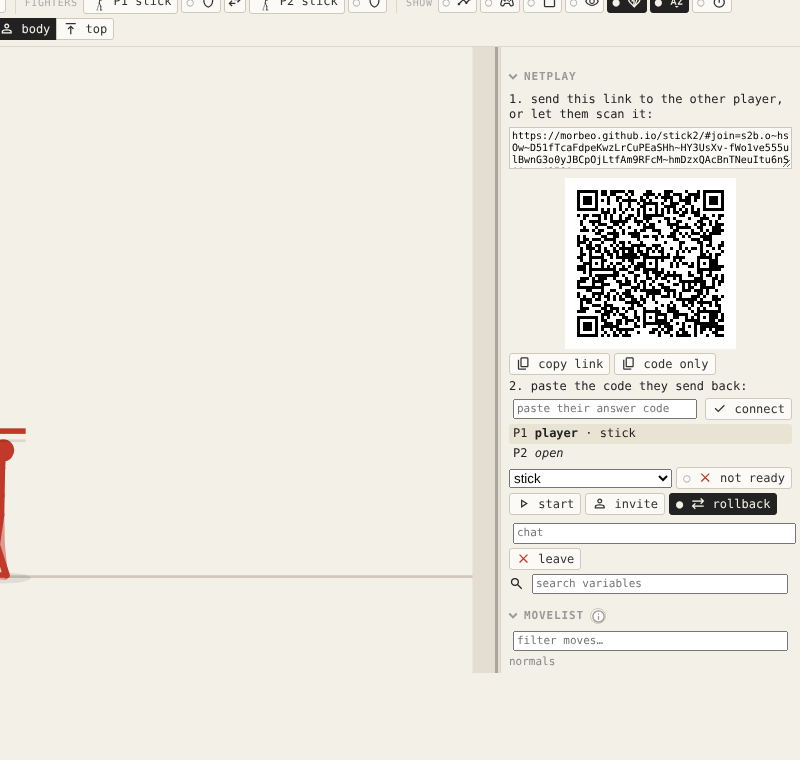
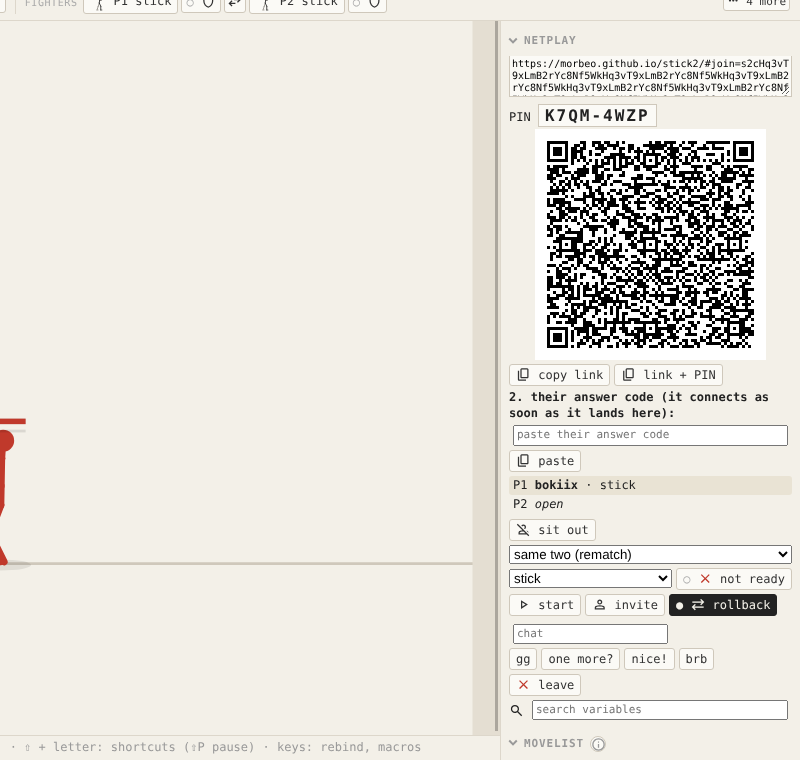
Deploy master@0562650

diff --git a/index.html b/index.html
@@ -391,90 +391,90 @@
 <div id="side"></div>
 <div id="grip" data-tip="Drag: the side panel's width, kept per tab (double-click: back to 300 px)"></div>
 <div id="help"></div>
-<script src="src/build.js?v=d5320cb"></script>
-<script src="src/ui/embed-schema.js?v=d5320cb"></script>
-<script src="src/ui/embed-presets.js?v=d5320cb"></script>
-<script src="src/ui/embed.js?v=d5320cb"></script>
-<script src="src/engine/core.js?v=d5320cb"></script>
-<script src="src/engine/shapes.js?v=d5320cb"></script>
-<script src="src/engine/rig.js?v=d5320cb"></script>
-<script src="src/engine/rig-chars.js?v=d5320cb"></script>
-<script src="src/engine/chars/stick.js?v=d5320cb"></script>
-<script src="src/engine/rig-weapons.js?v=d5320cb"></script>
-<script src="src/engine/rig-pose.js?v=d5320cb"></script>
-<script src="src/engine/rig-draw.js?v=d5320cb"></script>
-<script src="src/engine/fx.js?v=d5320cb"></script>
-<script src="src/engine/objdiff.js?v=d5320cb"></script>
-<script src="src/engine/chars/_kit.js?v=d5320cb"></script>
-<script src="src/engine/chars/hadoo.js?v=d5320cb"></script>
-<script src="src/engine/chars/grumbo.js?v=d5320cb"></script>
-<script src="src/engine/chars/jabbo.js?v=d5320cb"></script>
-<script src="src/engine/chars/sneeko.js?v=d5320cb"></script>
-<script src="src/engine/chars/zippa.js?v=d5320cb"></script>
-<script src="src/engine/chars/hicco.js?v=d5320cb"></script>
-<script src="src/engine/chars/lumpo.js?v=d5320cb"></script>
-<script src="src/engine/chars/sarj.js?v=d5320cb"></script>
-<script src="src/engine/chars/noodo.js?v=d5320cb"></script>
-<script src="src/engine/chars/gogili.js?v=d5320cb"></script>
-<script src="src/engine/chars/honky.js?v=d5320cb"></script>
-<script src="src/engine/chars/gloomo.js?v=d5320cb"></script>
-<script src="src/engine/chars/centaur.js?v=d5320cb"></script>
-<script src="src/engine/chars/houndo.js?v=d5320cb"></script>
-<script src="src/engine/chars/otkopod.js?v=d5320cb"></script>
-<script src="src/engine/chars/clampo.js?v=d5320cb"></script>
-<script src="src/engine/chars/bonko.js?v=d5320cb"></script>
-<script src="src/engine/roster.js?v=d5320cb"></script>
-<script src="src/engine/fighter.js?v=d5320cb"></script>
-<script src="src/engine/world.js?v=d5320cb"></script>
-<script src="src/engine/stage.js?v=d5320cb"></script>
-<script src="src/engine/brain.js?v=d5320cb"></script>
-<script src="src/engine/checks.js?v=d5320cb"></script>
-<script src="src/ui/ui.js?v=d5320cb"></script>
-<script src="src/ui/panelstate.js?v=d5320cb"></script>
-<script src="src/ui/layout.js?v=d5320cb"></script>
-<script src="src/ui/sound.js?v=d5320cb"></script>
-<script src="src/editor/tracker.js?v=d5320cb"></script>
-<script src="src/editor/studio.js?v=d5320cb"></script>
-<script src="src/editor/files.js?v=d5320cb"></script>
-<script src="src/editor/lab.js?v=d5320cb"></script>
-<script src="src/editor/labpanel.js?v=d5320cb"></script>
-<script src="src/editor/creator.js?v=d5320cb"></script>
-<script src="src/editor/editor.js?v=d5320cb"></script>
-<script src="src/editor/keyedit.js?v=d5320cb"></script>
-<script src="src/editor/movetable.js?v=d5320cb"></script>
-<script src="src/editor/soundlab.js?v=d5320cb"></script>
-<script src="src/editor/fxlab.js?v=d5320cb"></script>
-<script src="src/editor/gridlab.js?v=d5320cb"></script>
-<script src="src/editor/propedit.js?v=d5320cb"></script>
-<script src="src/editor/matrix.js?v=d5320cb"></script>
-<script src="src/engine/inputs.js?v=d5320cb"></script>
-<script src="src/engine/combos.js?v=d5320cb"></script>
-<script src="src/engine/breed.js?v=d5320cb"></script>
-<script src="src/ui/keys.js?v=d5320cb"></script>
-<script src="src/ui/palette.js?v=d5320cb"></script>
-<script src="src/engine/scenarios.js?v=d5320cb"></script>
-<script src="src/editor/compare.js?v=d5320cb"></script>
-<script src="src/ui/docs.js?v=d5320cb"></script>
-<script src="src/ui/kitchensink.js?v=d5320cb"></script>
-<script src="src/engine/clip.js?v=d5320cb"></script>
-<script src="src/engine/events.js?v=d5320cb"></script>
-<script src="src/engine/replay.js?v=d5320cb"></script>
-<script src="src/engine/replay-timeline.js?v=d5320cb"></script>
-<script src="src/engine/replay-scene.js?v=d5320cb"></script>
-<script src="src/engine/replay-footage.js?v=d5320cb"></script>
-<script src="src/engine/replay-movie.js?v=d5320cb"></script>
-<script src="src/engine/replay-panel.js?v=d5320cb"></script>
-<script src="src/net/netplay.js?v=d5320cb"></script>
-<script src="src/net/lobby.js?v=d5320cb"></script>
-<script src="src/net/netmatch.js?v=d5320cb"></script>
-<script src="src/net/qr.js?v=d5320cb"></script>
-<script src="src/net/names.js?v=d5320cb"></script>
-<script src="src/net/netserver.js?v=d5320cb"></script>
-<script src="src/net/netui.js?v=d5320cb"></script>
-<script src="src/ui/welcome.js?v=d5320cb"></script>
-<script src="src/ui/app.js?v=d5320cb"></script>
-<script src="src/ui/touch.js?v=d5320cb"></script>
-<script src="src/ui/gamepad.js?v=d5320cb"></script>
-<script src="src/ui/bridge.js?v=d5320cb"></script>
+<script src="src/build.js?v=0562650"></script>
+<script src="src/ui/embed-schema.js?v=0562650"></script>
+<script src="src/ui/embed-presets.js?v=0562650"></script>
+<script src="src/ui/embed.js?v=0562650"></script>
+<script src="src/engine/core.js?v=0562650"></script>
+<script src="src/engine/shapes.js?v=0562650"></script>
+<script src="src/engine/rig.js?v=0562650"></script>
+<script src="src/engine/rig-chars.js?v=0562650"></script>
+<script src="src/engine/chars/stick.js?v=0562650"></script>
+<script src="src/engine/rig-weapons.js?v=0562650"></script>
+<script src="src/engine/rig-pose.js?v=0562650"></script>
+<script src="src/engine/rig-draw.js?v=0562650"></script>
+<script src="src/engine/fx.js?v=0562650"></script>
+<script src="src/engine/objdiff.js?v=0562650"></script>
+<script src="src/engine/chars/_kit.js?v=0562650"></script>
+<script src="src/engine/chars/hadoo.js?v=0562650"></script>
+<script src="src/engine/chars/grumbo.js?v=0562650"></script>
+<script src="src/engine/chars/jabbo.js?v=0562650"></script>
+<script src="src/engine/chars/sneeko.js?v=0562650"></script>
+<script src="src/engine/chars/zippa.js?v=0562650"></script>
+<script src="src/engine/chars/hicco.js?v=0562650"></script>
+<script src="src/engine/chars/lumpo.js?v=0562650"></script>
+<script src="src/engine/chars/sarj.js?v=0562650"></script>
+<script src="src/engine/chars/noodo.js?v=0562650"></script>
+<script src="src/engine/chars/gogili.js?v=0562650"></script>
+<script src="src/engine/chars/honky.js?v=0562650"></script>
+<script src="src/engine/chars/gloomo.js?v=0562650"></script>
+<script src="src/engine/chars/centaur.js?v=0562650"></script>
+<script src="src/engine/chars/houndo.js?v=0562650"></script>
+<script src="src/engine/chars/otkopod.js?v=0562650"></script>
+<script src="src/engine/chars/clampo.js?v=0562650"></script>
+<script src="src/engine/chars/bonko.js?v=0562650"></script>
+<script src="src/engine/roster.js?v=0562650"></script>
+<script src="src/engine/fighter.js?v=0562650"></script>
+<script src="src/engine/world.js?v=0562650"></script>
+<script src="src/engine/stage.js?v=0562650"></script>
+<script src="src/engine/brain.js?v=0562650"></script>
+<script src="src/engine/checks.js?v=0562650"></script>
+<script src="src/ui/ui.js?v=0562650"></script>
+<script src="src/ui/panelstate.js?v=0562650"></script>
+<script src="src/ui/layout.js?v=0562650"></script>
+<script src="src/ui/sound.js?v=0562650"></script>
+<script src="src/editor/tracker.js?v=0562650"></script>
+<script src="src/editor/studio.js?v=0562650"></script>
+<script src="src/editor/files.js?v=0562650"></script>
+<script src="src/editor/lab.js?v=0562650"></script>
+<script src="src/editor/labpanel.js?v=0562650"></script>
+<script src="src/editor/creator.js?v=0562650"></script>
+<script src="src/editor/editor.js?v=0562650"></script>
+<script src="src/editor/keyedit.js?v=0562650"></script>
+<script src="src/editor/movetable.js?v=0562650"></script>
+<script src="src/editor/soundlab.js?v=0562650"></script>
+<script src="src/editor/fxlab.js?v=0562650"></script>
+<script src="src/editor/gridlab.js?v=0562650"></script>
+<script src="src/editor/propedit.js?v=0562650"></script>
+<script src="src/editor/matrix.js?v=0562650"></script>
+<script src="src/engine/inputs.js?v=0562650"></script>
+<script src="src/engine/combos.js?v=0562650"></script>
+<script src="src/engine/breed.js?v=0562650"></script>
+<script src="src/ui/keys.js?v=0562650"></script>
+<script src="src/ui/palette.js?v=0562650"></script>
+<script src="src/engine/scenarios.js?v=0562650"></script>
+<script src="src/editor/compare.js?v=0562650"></script>
+<script src="src/ui/docs.js?v=0562650"></script>
+<script src="src/ui/kitchensink.js?v=0562650"></script>
+<script src="src/engine/clip.js?v=0562650"></script>
+<script src="src/engine/events.js?v=0562650"></script>
+<script src="src/engine/replay.js?v=0562650"></script>
+<script src="src/engine/replay-timeline.js?v=0562650"></script>
+<script src="src/engine/replay-scene.js?v=0562650"></script>
+<script src="src/engine/replay-footage.js?v=0562650"></script>
+<script src="src/engine/replay-movie.js?v=0562650"></script>
+<script src="src/engine/replay-panel.js?v=0562650"></script>
+<script src="src/net/netplay.js?v=0562650"></script>
+<script src="src/net/lobby.js?v=0562650"></script>
+<script src="src/net/netmatch.js?v=0562650"></script>
+<script src="src/net/qr.js?v=0562650"></script>
+<script src="src/net/names.js?v=0562650"></script>
+<script src="src/net/netserver.js?v=0562650"></script>
+<script src="src/net/netui.js?v=0562650"></script>
+<script src="src/ui/welcome.js?v=0562650"></script>
+<script src="src/ui/app.js?v=0562650"></script>
+<script src="src/ui/touch.js?v=0562650"></script>
+<script src="src/ui/gamepad.js?v=0562650"></script>
+<script src="src/ui/bridge.js?v=0562650"></script>
 </body>
 </html>

diff --git a/embed.html b/embed.html
@@ -54,8 +54,8 @@
     <div class="out" id="warnings"></div>
   </section>
 </main>
-<script src="src/ui/embed-schema.js?v=d5320cb"></script>
-<script src="src/ui/embed-presets.js?v=d5320cb"></script>
+<script src="src/ui/embed-schema.js?v=0562650"></script>
+<script src="src/ui/embed-presets.js?v=0562650"></script>
 <script>
 'use strict';
 const $ = id => document.getElementById(id), el = (tag, props = {}, ...kids) => { const e = Object.assign(document.createElement(tag), props); e.append(...kids); return e; };

diff --git a/src/build.js b/src/build.js
@@ -1,2 +1,2 @@
 // generated by tools/dev/build-info.js
-const BUILD = {"commit":"5bc2ea6","branch":"master","date":"2026-11-02T10:48:28+02:00","subject":"Merge pull request #103 from morbeo/feat/server-room-rotation","dirty":false,"built":"2026-11-02T08:48:53.514Z"};
+const BUILD = {"commit":"0562650","branch":"master","date":"2026-11-02T11:45:02+02:00","subject":"Merge pull request #105 from morbeo/docs/netplay-screenshot","dirty":false,"built":"2026-11-02T09:45:14.161Z"};

diff --git a/docs/netplay.md b/docs/netplay.md
@@ -4,7 +4,7 @@
 
 Online play between two browsers, with no server: the design, and what's built so far. Status: **all four layers, rollback, spectators, and the play tab's netplay section are built and tested.** Spectators can join mid-match. Time sync is next.
 
-![The netplay section with a hosted lobby: the invite link, its QR code and the answer box](img/netplay.png)
+![The netplay section with a hosted lobby: the invite link, its PIN, the QR code and the answer box](img/netplay.png)
 
 ## Constraints
 
